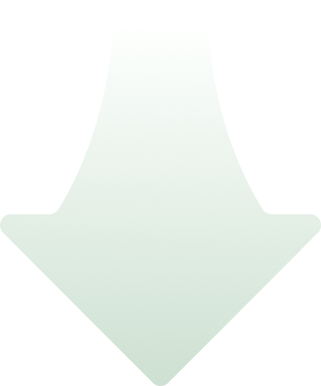
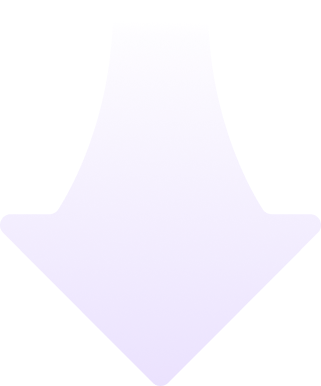
서브 콘텐츠페이지 일부 컨텐츠 색상 초록색에서 보라색으로 수정

Changed region(s): [[0.0, 0.5596, 0.9969, 1.0]]

diff --git a/assets/scss/sub.scss b/assets/scss/sub.scss
@@ -11886,9 +11886,9 @@ tr.nodata{
                 flex:1;
                 position:relative;
                 border-radius:50%;
-                border:1px solid #006012;
+                border:1px solid #976AF9;
                 background-color:#fff;
-                color:#006012;
+                color:#222;
                 font-size:rem(22);
                 font-weight:400;
                 overflow:hidden;
@@ -16240,8 +16240,8 @@ tr.nodata{
                     width:rem(240);
                     height:rem(240);
                     border-radius:50%;
-                    border:1px solid #006012;    
-                    color: #006012; 
+                    border:1px solid #976AF9;    
+                    color: #976AF9; 
                     background-color:#fff;       
                     font-size:rem(30);
                     font-weight:600;
@@ -16367,7 +16367,7 @@ tr.nodata{
                 max-width:952px;
                 padding:rem(30);
                 border-radius:rem(20);
-                border:1px solid #006012;
+                border:1px solid #976AF9;
                 background:#FFF;
                 text-align:center;
 

diff --git a/assets/css/sub.css b/assets/css/sub.css
@@ -10213,9 +10213,9 @@ tr.nodata td {
           flex: 1;
   position: relative;
   border-radius: 50%;
-  border: 1px solid #006012;
+  border: 1px solid #976AF9;
   background-color: #fff;
-  color: #006012;
+  color: #222;
   font-size: 1.375rem;
   font-weight: 400;
   overflow: hidden;
@@ -14247,8 +14247,8 @@ tr.nodata td {
   width: 15rem;
   height: 15rem;
   border-radius: 50%;
-  border: 1px solid #006012;
-  color: #006012;
+  border: 1px solid #976AF9;
+  color: #976AF9;
   background-color: #fff;
   font-size: 1.875rem;
   font-weight: 600;
@@ -14375,7 +14375,7 @@ tr.nodata td {
   max-width: 952px;
   padding: 1.875rem;
   border-radius: 1.25rem;
-  border: 1px solid #006012;
+  border: 1px solid #976AF9;
   background: #FFF;
   text-align: center;
 }
